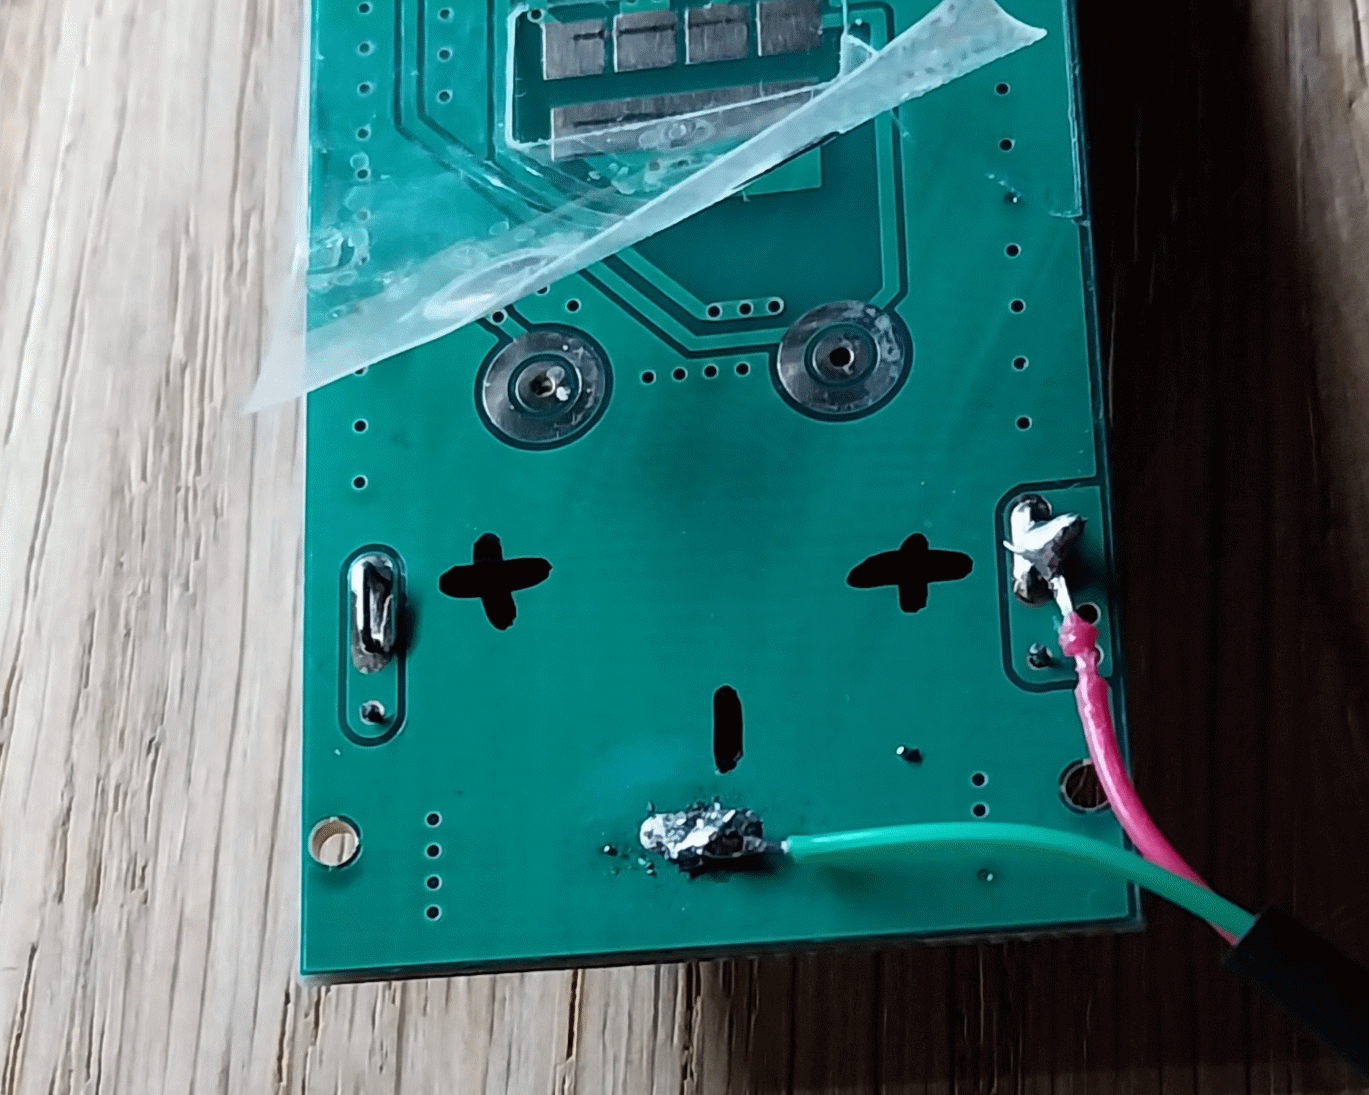
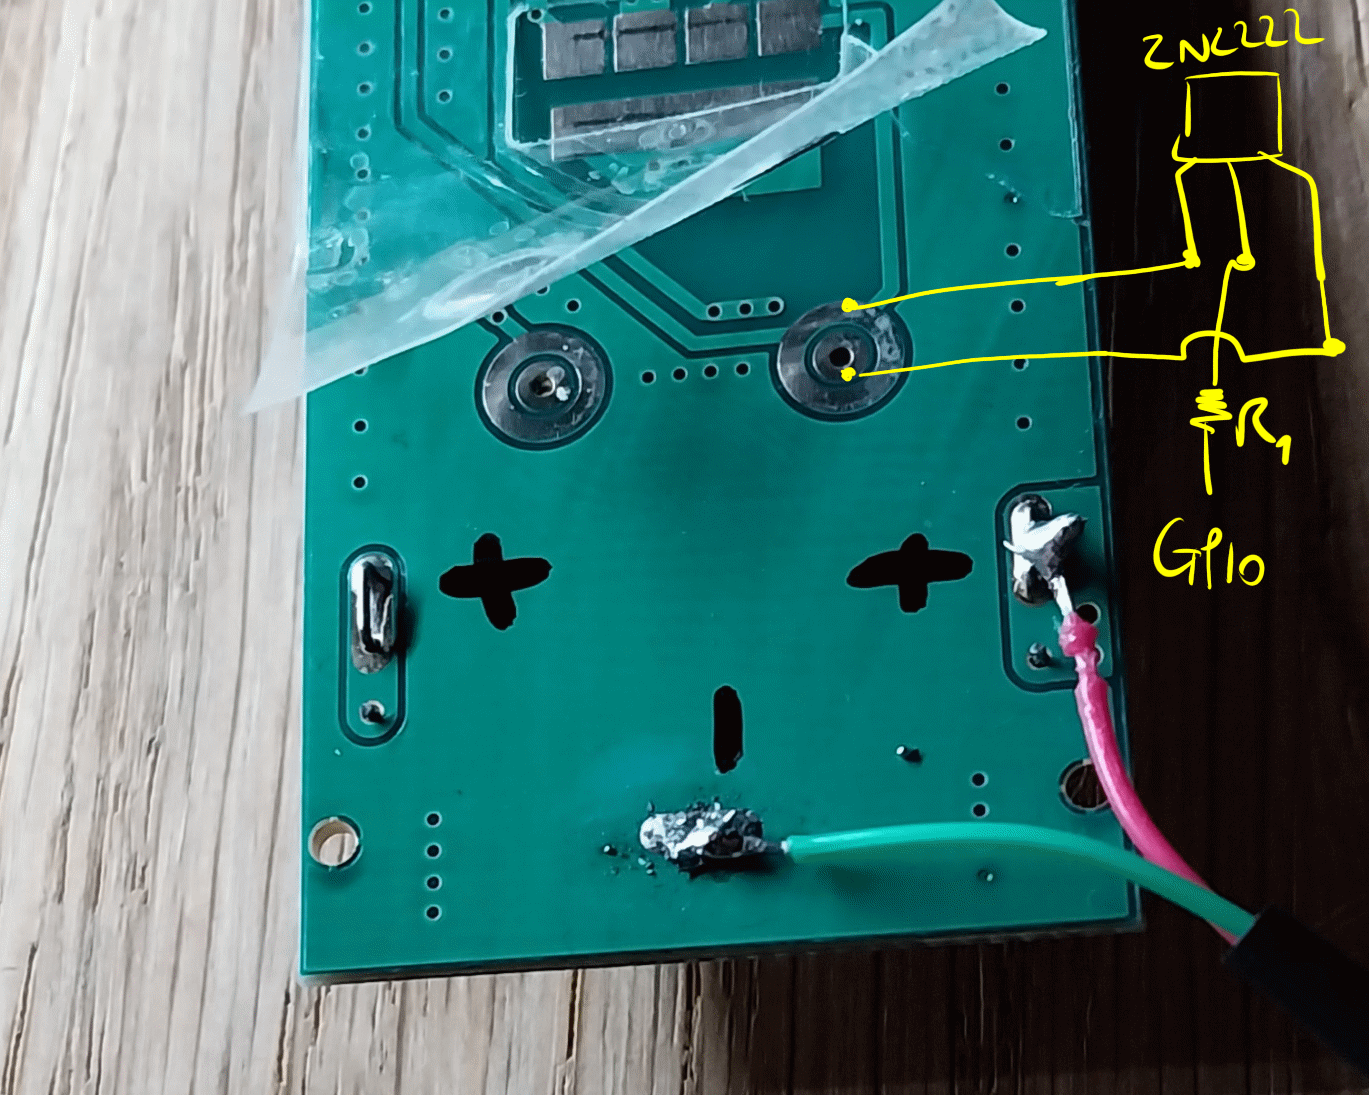
2N2222 analysis

diff --git a/docs/RCU Rising Sun TAA02A/readme.md b/docs/RCU Rising Sun TAA02A/readme.md
@@ -18,15 +18,38 @@ Therefore, you just need to wire
 
 ## Buttons
 The buttons (1 to 4, ALL ON/OFF) are little clicking caps that provide a contact between PCB tracks.
-![contactors](contactors.png)
 
 The idea is to involve NPN Transistor as a switches:
 ![NPN switch](https://www.electronicshub.org/wp-content/smush-webp/2021/04/NPN-Transistor-as-Switch.jpg.webp)
 
 (from https://www.electronicshub.org/transistor-as-a-switch/)
 
-> NPN Transistor ref : 2N2222
->
+![contactors](contactors.png)
+
+(possible implementation)
+
+
+### Analysis
+#### GPIO specifications
+The current output from a Raspberry Pi GPIO (General Purpose Input/Output) pin is typically limited to ensure safe operation of the GPIO and the Raspberry Pi itself. Here are the key specifications:
+Current Specifications
+* Maximum Current per GPIO Pin:
+        Each GPIO pin can typically source or sink up to 16-20 mA safely.
+
+* Maximum Total Current:
+        The total current for all GPIO pins combined should not exceed 50 mA to 100 mA, depending on the Raspberry Pi model.
+
+* Recommended Operating Current:
+        For reliable operation, it's often recommended to limit the current to around 5-10 mA per pin, especially if multiple pins are used simultaneously.
+
+* Important Considerations
+  * Voltage Levels: Raspberry Pi GPIO pins operate at 3.3V logic levels. Applying voltages significantly higher than this can damage the GPIO pins.
+  *  External Devices: If you need to control devices that require more current (like motors or LEDs), consider using transistors, relays, or other driver circuits to handle the higher currents.
+  *  Pull-Up/Pull-Down Resistors: When configuring GPIO pins as inputs, using internal pull-up or pull-down resistors can help stabilize the input signal without drawing excessive current.
+
+#### 2N2222 specifications
+The 2N2222 is a NPN Transistor 
+
 > ![2N2222](https://upload.wikimedia.org/wikipedia/commons/thumb/a/ae/2N2222%2C_PN2222%2C_and_P2N2222_BJT_Pinout.jpg/440px-2N2222%2C_PN2222%2C_and_P2N2222_BJT_Pinout.jpg)
 > * E: Emitter
 > * B: Base
@@ -34,9 +57,58 @@ The idea is to involve NPN Transistor as a switches:
 >
 > See also https://www.youtube.com/watch?v=s38j5A4XYxk
 
+Its electrical limits are:
+  * Maximum Collector Current (Ic) <  800 mA.
+  * Maximum Collector-Emitter Voltage (Vce) < 40V.
+  * Gain (hFE) should be between 100 and 300 - see here under.
 
-## Principles
-* Using 2N2222 as contactors the GPIO will act as the caps
+
+> **Gain (hFE)**
+> Gain (hFE), also known as the current gain of a bipolar junction transistor (BJT),
+> is a measure of how much the transistor amplifies the input current at the base (Ib)
+> to produce a larger output current at the collector (Ic). It is defined as 
+> the ratio of the collector current (Ic) to the base current (Ib):
+> 
+> $hFE = {Ic \over Ib}$
+>
+> The gain (hFE) of the 2N2222 typically ranges from 100 to 300.
+> This means that a small input current from the GPIO can 
+> control a larger output current to the load.
+>
+> GPIO Output Current: Raspberry Pi GPIO pins are typically limited to 16-20 mA.
+> This is sufficient to drive the base of the 2N2222 into saturation, 
+> allowing it to control larger currents at the collector.
+>
+> Base Current Calculation: To ensure that the transistor is fully turned ON (in saturation),
+> you can calculate the required base current (Ib) using the formula:
+> 
+> $ Ib = {Ic \over hFE}$
+>
+> to get a load of, say 200 mA (Io), the base current needed would be:
+> 
+> $ Ib = {200mA \over 100} = 2mA$ (using the lower limit of hFE)
+>
+> => This is well within the GPIO capacity.
+>
+
+#### Resistor for Base Current
+To limit the base current from the GPIO, you can use a resistor. 
+For example, if the GPIO outputs 3.3V and you want about 5mA of base current:
+
+> $Rb = {Vgpio - Vbe \over Ib} ≈ {3.3V - 0.7V \over 5mA} = 520Ω$ 
+
+A standard resistor value of 470Ω or 1kΩ would work well.
+ 
+#### Conclusion
+Using 2N2222 as contactors the GPIO will act as the caps since 
+* the current of the 2N2222 is compatible with the output characteristics of a Raspberry Pi GPIO pin.
+* the voltage of the 2N2222 is compatible with the output characteristics of a Raspberry Pi GPIO pin.
+* the gain of the 2N2222 is compatible with the output characteristics of a Raspberry Pi GPIO pin.
+
+It can effectively amplify the small current from the GPIO to control the caps,
+provided that the GPIO pin is protected with a resistor.
+
+## Controlling the RCU 
 * For a given plug: 2 contactors will be required
   * one between A/B/C/D and COMMON
   * one on 1/2/3/4 either on the ON or the OFF side
